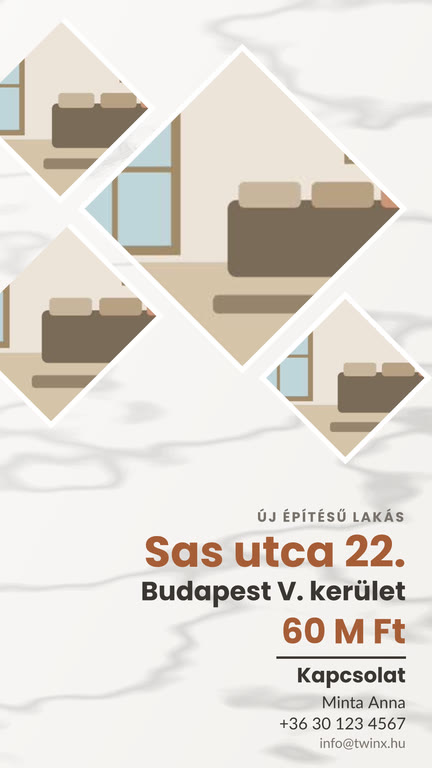
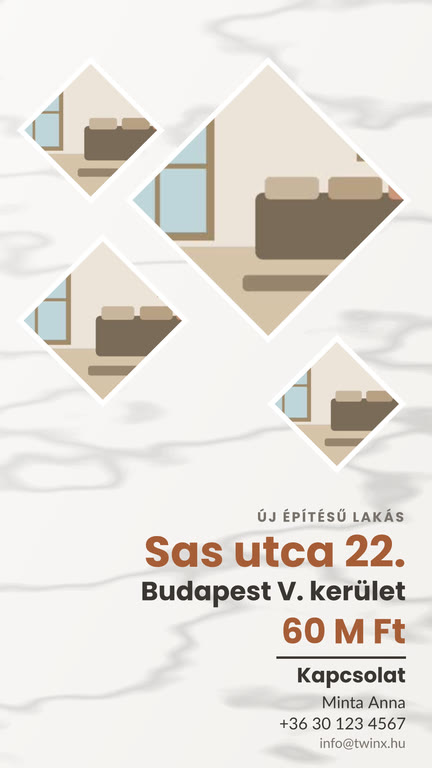
Mozaik: Smaragd + arany színvilág, rombuszok végig keretezve; Pakli → Polaroid; kedvenc-szűrő nem zsugorítja az ablakot

diff --git a/src/components/video/VideoWizard.tsx b/src/components/video/VideoWizard.tsx
@@ -156,6 +156,14 @@ export default function VideoWizard({
     }
   }
   const visibleFamilies = favOnly ? ENGINE_FAMILIES.filter((f) => favorites.has(f.templateId)) : ENGINE_FAMILIES;
+  // A sablonlista magassága az „Összes sablon” nézetben — a Kedvencekre váltva is ennyi marad,
+  // így a szerkesztő ablaka nem ugrik össze, ha kevés (vagy nincs) kedvenc.
+  const listRef = useRef<HTMLDivElement>(null);
+  const [listH, setListH] = useState<number | null>(null);
+  function pickFilter(fav: boolean) {
+    if (fav && !favOnly && listRef.current) setListH(listRef.current.getBoundingClientRect().height);
+    setFavOnly(fav);
+  }
 
   // 1) Képek (5, az első a NYITÓKÉP). Minden fotóhoz saját, szabad felirat tartozik.
   type CaptionPos = "bottom" | "center";
@@ -449,7 +457,8 @@ export default function VideoWizard({
                 {engine ? "Minden sablonnak saját stílusa, áttűnése és színvilága van." : "A sablonok felépítése azonos — a kiemelő szín különbözteti meg őket."}
               </p>
               {/* SABLONLISTA — GÖRGETHETŐ (több sablonnál ez a rész gördül, a méret-sáv alatta fix) */}
-              <div className="-mx-1 min-h-0 flex-1 overflow-y-auto px-1 pb-1">
+              <div ref={listRef} className="-mx-1 min-h-0 flex-1 overflow-y-auto px-1 pb-1"
+                style={favOnly && listH ? { minHeight: listH, flexBasis: listH } : undefined}>
                 {engine ? (
                   visibleFamilies.length === 0 ? (
                     <div className="rounded-xl px-4 py-8 text-center text-sm" style={{ border: "1px dashed var(--twx-line)", color: "var(--twx-ink-muted)" }}>
@@ -597,7 +606,7 @@ export default function VideoWizard({
                         ].map((t) => {
                           const active = favOnly === t.id;
                           return (
-                            <button key={String(t.id)} type="button" role="tab" aria-selected={active} onClick={() => setFavOnly(t.id)}
+                            <button key={String(t.id)} type="button" role="tab" aria-selected={active} onClick={() => pickFilter(t.id)}
                               className="flex items-center gap-2.5 rounded-lg py-1 pl-1 pr-3 text-left transition"
                               style={{ background: active ? "var(--twx-coral-soft)" : "transparent" }}>
                               <span className="flex h-7 w-7 items-center justify-center rounded-md text-[13px]"
@@ -1118,9 +1127,9 @@ function EnginePreview({ item, photo }: { item: EngineGalleryItem; photo?: strin
         // eslint-disable-next-line @next/next/no-img-element
         <img src={photo} alt="" className="absolute inset-0 h-full w-full object-cover" />
       )}
-      {item.templateId === "pakli" ? (
-        // Pakli: a VALÓDI motor nyitóképe a választott színvilággal (piros / kék) — lakás-ábrával.
-        // Újragyártás: node scripts/video-pakli-preview.mjs → public/video-previews/pakli*-9x16.jpg
+      {item.templateId === "polaroid" ? (
+        // Polaroid: a VALÓDI motor nyitóképe a választott színvilággal (piros / kék) — lakás-ábrával.
+        // Újragyártás: node scripts/video-polaroid-preview.mjs → public/video-previews/polaroid*-9x16.jpg
         <span className="absolute inset-0 flex justify-center" style={{ background: p.base }}>
           {/* eslint-disable-next-line @next/next/no-img-element */}
           <img src={`/video-previews/${item.id}-9x16.jpg`} alt="" className="h-full w-auto max-w-none object-contain" />
@@ -1130,7 +1139,7 @@ function EnginePreview({ item, photo }: { item: EngineGalleryItem; photo?: strin
         // Újragyártás sablonváltozáskor: public/video-previews/mozaik-9x16.jpg (docs/video-motor-allapot.md).
         <span className="absolute inset-0 flex justify-center" style={{ background: p.base }}>
           {/* eslint-disable-next-line @next/next/no-img-element */}
-          <img src="/video-previews/mozaik-9x16.jpg" alt="" className="h-full w-auto max-w-none object-contain" />
+          <img src={`/video-previews/${item.id}-9x16.jpg`} alt="" className="h-full w-auto max-w-none object-contain" />
         </span>
       ) : item.templateId === "prestige" ? (
         <>

diff --git a/src/lib/video-engine/templates/index.ts b/src/lib/video-engine/templates/index.ts
@@ -4,14 +4,14 @@ import { applyVariant } from "@/lib/video-engine/template-schema";
 import { AURORA, AURORA_VARIANTS } from "@/lib/video-engine/templates/aurora";
 import { SKANDI, SKANDI_VARIANTS } from "@/lib/video-engine/templates/skandi";
 import { PRESTIGE, PRESTIGE_VARIANTS } from "@/lib/video-engine/templates/prestige";
-import { MOZAIK } from "@/lib/video-engine/templates/mozaik";
-import { PAKLI, PAKLI_VARIANTS } from "@/lib/video-engine/templates/pakli";
+import { MOZAIK, MOZAIK_VARIANTS } from "@/lib/video-engine/templates/mozaik";
+import { POLAROID, POLAROID_VARIANTS } from "@/lib/video-engine/templates/polaroid";
 
 /** Fejlesztés alatti sablonok (devOnly) csak localhoston látszanak és választhatók. */
 const SHOW_DEV = process.env.NODE_ENV !== "production";
 
-export const ENGINE_TEMPLATES: TwinxTemplate[] = [AURORA, SKANDI, PRESTIGE, MOZAIK, PAKLI].filter((t) => SHOW_DEV || !t.devOnly);
-export const ENGINE_VARIANTS: TemplateVariant[] = [...AURORA_VARIANTS, ...SKANDI_VARIANTS, ...PRESTIGE_VARIANTS, ...PAKLI_VARIANTS]
+export const ENGINE_TEMPLATES: TwinxTemplate[] = [AURORA, SKANDI, PRESTIGE, MOZAIK, POLAROID].filter((t) => SHOW_DEV || !t.devOnly);
+export const ENGINE_VARIANTS: TemplateVariant[] = [...AURORA_VARIANTS, ...SKANDI_VARIANTS, ...PRESTIGE_VARIANTS, ...MOZAIK_VARIANTS, ...POLAROID_VARIANTS]
   // A fejlesztés alatti (rejtett) sablon színváltozata is rejtve marad.
   .filter((v) => ENGINE_TEMPLATES.some((t) => t.id === v.templateId));
 
@@ -49,7 +49,7 @@ const FAMILY_NAMES: Record<string, { name: string; tagline: string }> = {
   aurora: { name: "Aurora", tagline: "Elegáns, sötét — nyíl-áttűnések, ferde panelek" },
   skandi: { name: "Skandi", tagline: "Világos, letisztult — lágy átúsztatás, háztető-panel" },
   mozaik: { name: "Mozaik", tagline: "Világos, márványos — rombusz fotómozaik, képcserés galéria, papírcsík-felirat" },
-  pakli: { name: "Pakli", tagline: "Fotópakli telt színen — a szél lefújja a legfelső képet, írógépes feliratok (fejlesztés alatt)" },
+  polaroid: { name: "Polaroid", tagline: "Előhívott fotók paklija telt színen — a szél lefújja a legfelsőt, régi film hangulat (fejlesztés alatt)" },
   prestige: { name: "Prestige", tagline: "Luxus, sötét elegancia — filmes „filmburn” áttűnés hanggal" },
 };
 const COLOR_NAMES: Record<string, string> = {
@@ -60,8 +60,9 @@ const COLOR_NAMES: Record<string, string> = {
   prestige: "Pezsgőarany",
   "prestige-grafit": "Grafit + platina",
   mozaik: "Márvány + terrakotta",
-  pakli: "Bíborpiros",
-  "pakli-kek": "Drámai kék",
+  "mozaik-smaragd": "Smaragd + arany",
+  polaroid: "Bíborpiros",
+  "polaroid-kek": "Drámai kék",
 };
 export type EngineColor = EngineGalleryItem & { colorName: string };
 export type EngineFamily = { templateId: string; name: string; tagline: string; colors: EngineColor[] };

diff --git a/src/lib/video-engine/templates/mozaik.ts b/src/lib/video-engine/templates/mozaik.ts
@@ -9,7 +9,7 @@
 // GALÉRIA (2. fotótól): nagy kép + kis képek oszlopa, „csere" áttűnés, papírcsík-felirat.
 //
 // IDŐVONAL (5 fotó, 34,4 mp): 0–6 nyitó · 6–28,4 galéria (4 × 5,6 mp) · 28,4–34,4 zárókép
-import type { TwinxTemplate, Layer, StackItem, AspectId, Box } from "@/lib/video-engine/template-schema";
+import type { TwinxTemplate, Layer, StackItem, AspectId, Box, TemplateVariant } from "@/lib/video-engine/template-schema";
 
 const HEAD = "Outfit";
 const NOTE = "Shantell Sans";
@@ -22,22 +22,24 @@ function dbox(d: D, aspect: AspectId) {
   return { x: d.cx - d.r, y: (d.cy - d.r) * k, w: 2 * d.r, h: 2 * d.r * k };
 }
 
-// A rombuszok egymáshoz képest ~0,035 W fehér réssel (a referencia sűrű mozaikja).
+// A rombuszok egymáshoz képest ~0,05 W fehér réssel (a referencia sűrű mozaikja).
+// MIND a vásznon belül marad (min. 3% margó) — így a fehér keret körben, végig látszik
+// (korábban a bal oldali kis rombuszok kilógtak, és a keretük félbe vágódott).
 const LAYOUT: Record<AspectId, { main: D; small: D[] }> = {
   "1:1": {
-    main: { cx: 0.33, cy: 0.42, r: 0.3 },
+    main: { cx: 0.36, cy: 0.42, r: 0.25 },
     small: [
-      { cx: 0.08, cy: 0.15, r: 0.17 }, // bal felső (kilóg a szélen)
-      { cx: 0.08, cy: 0.73, r: 0.21 }, // bal alsó
-      { cx: 0.47, cy: 0.8, r: 0.17 },  // lent középen
+      { cx: 0.16, cy: 0.17, r: 0.13 }, // bal felső
+      { cx: 0.19, cy: 0.76, r: 0.16 }, // bal alsó
+      { cx: 0.5, cy: 0.83, r: 0.13 },  // lent középen
     ],
   },
   "9:16": {
-    main: { cx: 0.56, cy: 0.48, r: 0.38 },
+    main: { cx: 0.62, cy: 0.46, r: 0.33 },
     small: [
-      { cx: 0.14, cy: 0.25, r: 0.22 }, // bal felső
-      { cx: 0.12, cy: 0.73, r: 0.26 }, // bal alsó
-      { cx: 0.8, cy: 0.87, r: 0.2 },   // jobb alsó
+      { cx: 0.21, cy: 0.3, r: 0.17 },  // bal felső
+      { cx: 0.24, cy: 0.74, r: 0.2 },  // bal alsó
+      { cx: 0.78, cy: 0.93, r: 0.16 }, // jobb alsó
     ],
   },
 };
@@ -265,3 +267,11 @@ function buildMozaik(count: number): TwinxTemplate {
 }
 
 export const MOZAIK: TwinxTemplate = buildMozaik(5);
+
+/** Második színvilág: SMARAGD MÁRVÁNY + ARANY (sötétzöld márvány háttér, arany cím és ár, krém szöveg). */
+export const MOZAIK_VARIANTS: TemplateVariant[] = [
+  {
+    id: "mozaik-smaragd", templateId: "mozaik", name: "TWINX Mozaik — Smaragd + arany",
+    palette: { shadow: "#0b1c17", base: "#173229", glow: "#24463b", accent: "#d4b06a", text: "#f3ece0", muted: "#9fb6a9" },
+  },
+];

diff --git a/src/lib/video-engine/templates/polaroid.ts b/src/lib/video-engine/templates/polaroid.ts
@@ -1,4 +1,4 @@
-// TWINX PAKLI — „fotópakli” sablon (FEJLESZTÉS ALATT: csak localhoston — devOnly).
+// TWINX POLAROID (korábbi munkanév: Pakli) — „fotópakli” sablon (FEJLESZTÉS ALATT: csak localhoston — devOnly).
 //
 // A referencia: telt színű háttéren (bíborpiros / drámai kék) egy pakli előhívott fotó.
 // • A FŐ INFORMÁCIÓK végig FENT állnak; a nyitóképen lendületesen, egymás után úsznak be
@@ -142,7 +142,7 @@ function caption(n: number): Layer {
   };
 }
 
-function buildPakli(count: number): TwinxTemplate {
+function buildPolaroid(count: number): TwinxTemplate {
   const n = count >= 5 ? 5 : 4;
   const photoScenes: TwinxTemplate["scenes"] = [];
   for (let m = 2; m <= n; m++) {
@@ -168,8 +168,8 @@ function buildPakli(count: number): TwinxTemplate {
     appear: { type: "rise", delay, duration: 0.5 },
   });
   return {
-    id: "pakli",
-    name: "TWINX Pakli",
+    id: "polaroid",
+    name: "TWINX Polaroid",
     devOnly: true, // FEJLESZTÉS ALATT — élesben nem jelenik meg
     version: 1,
     fps: 25,
@@ -191,7 +191,7 @@ function buildPakli(count: number): TwinxTemplate {
     audio: { volume: 1, fadeIn: 0.6, fadeOut: 2.2 },
     // „Régi fotó / old film” hangulat: szemcse, sötétedő szélek, fakó-meleg tónus, enyhe vibrálás.
     look: { grain: 16, vignette: 0.4, fade: 0.6, warm: 0.6, flicker: 0.5 },
-    forPhotoCount: (k: number) => buildPakli(k),
+    forPhotoCount: (k: number) => buildPolaroid(k),
     scenes: [
       {
         id: "nyito", role: "intro", length: INTRO,
@@ -231,12 +231,12 @@ function buildPakli(count: number): TwinxTemplate {
   };
 }
 
-export const PAKLI: TwinxTemplate = buildPakli(5);
+export const POLAROID: TwinxTemplate = buildPolaroid(5);
 
 /** Második színvilág: DRÁMAI KÉK (a fehér betű jól olvasható rajta). */
-export const PAKLI_VARIANTS: TemplateVariant[] = [
+export const POLAROID_VARIANTS: TemplateVariant[] = [
   {
-    id: "pakli-kek", templateId: "pakli", name: "TWINX Pakli — Drámai kék",
+    id: "polaroid-kek", templateId: "polaroid", name: "TWINX Polaroid — Drámai kék",
     palette: { shadow: "#06143a", base: "#11307f", glow: "#1d45a6", muted: "#cfdcf5" },
   },
 ];

diff --git a/src/lib/video-engine/layers.ts b/src/lib/video-engine/layers.ts
@@ -422,6 +422,11 @@ function marble(l: Extract<Layer, { kind: "component" }>, ctx: LayerCtx): Satori
   const base = resolveColor("@base", ctx.palette);
   const vein = resolveColor((l.props?.vein as ColorRef | undefined) ?? "@muted", ctx.palette);
   const seed = Number(l.props?.seed ?? 7);
+  // Sötét alapnál (pl. smaragd) a fehér „fényfolt” csak halvány, különben tejes lesz a márvány.
+  const n = parseInt(base.slice(1), 16);
+  const lum = (0.299 * ((n >> 16) & 255) + 0.587 * ((n >> 8) & 255) + 0.114 * (n & 255)) / 255;
+  const sheen = lum < 0.45 ? "0.12" : "0.55";
+  const veinOp = lum < 0.45 ? 0.16 : 0.2;
   return {
     type: "div",
     props: {
@@ -441,12 +446,12 @@ function marble(l: Extract<Layer, { kind: "component" }>, ctx: LayerCtx): Satori
                 { type: "feGaussianBlur", props: { in: "v", stdDeviation: "0.6" } },
               ] } },
               { type: "linearGradient", props: { id: "mg", x1: "0", y1: "0", x2: "1", y2: "1", children: [
-                { type: "stop", props: { offset: "0", "stop-color": "#ffffff", "stop-opacity": "0.55" } },
+                { type: "stop", props: { offset: "0", "stop-color": "#ffffff", "stop-opacity": sheen } },
                 { type: "stop", props: { offset: "1", "stop-color": "#ffffff", "stop-opacity": "0" } },
               ] } },
             ] } },
             { type: "rect", props: { x: 0, y: 0, width: W, height: H, fill: base } },
-            { type: "rect", props: { x: 0, y: 0, width: W, height: H, fill: vein, opacity: 0.2, filter: "url(#mv)" } },
+            { type: "rect", props: { x: 0, y: 0, width: W, height: H, fill: vein, opacity: veinOp, filter: "url(#mv)" } },
             { type: "rect", props: { x: 0, y: 0, width: W, height: H, fill: "url(#mg)" } },
           ],
         },

diff --git a/docs/video-motor-allapot.md b/docs/video-motor-allapot.md
@@ -81,8 +81,8 @@ A sablonkártya képe a VALÓDI motor nyitóképe: `public/video-previews/mozaik
 - Kedvencek: csillag a kártya bal felső sarkában → `video_template_favorites` tábla (`video-favorites.sql`),
   API: `src/app/api/real-estate/video/favorites/route.ts`. Ha a tábla hiányzik, a szerkesztő kedvencek nélkül működik.
 
-## **Pakli** (5. sablon) — FEJLESZTÉS ALATT (`devOnly`, csak localhost)
-- Fájl: `templates/pakli.ts`. Telt háttér: Bíborpiros (alap) / Drámai kék (`pakli-kek`).
+## **Polaroid** (5. sablon; korábbi munkanév: Pakli) — FEJLESZTÉS ALATT (`devOnly`, csak localhost)
+- Fájl: `templates/polaroid.ts` (id: `polaroid`). Telt háttér: Bíborpiros (alap) / Drámai kék (`polaroid-kek`).
 - Betű: Liberation Sans (OFL, a repóban: `assets/fonts/video/`) — Helvetica-jellegű, szoros betűköz (a referencia betűképe).
 - Fent végig a fő infó: kis típus-felirat · nagy félkövér cím (balra) · település jobbra zárva · ár kiemelő sávval.
   A nyitón egymás után, lendületesen úsznak be (`appear: "rise"`), a sáv balról kihúzódik (`appear: "wipe"`,
@@ -90,7 +90,7 @@ A sablonkártya képe a VALÓDI motor nyitóképe: `public/video-previews/mozaik
 - (Az írógépes `typeStack` / `typewriter` a motorban megmaradt, a Pakli már nem használja — lassú volt.)
 - Képváltás: a pakli tetejéről a szél LEFÚJJA a legfelső képet (`blow` a rétegen → forgás + gyorsuló sodródás, `kind: "blow"`).
 - Zárókép: a legalsó lap üres papír, rajta gépelve az elérhetőség (sötét tinta), alatta a logó.
-- Előnézet: `scripts/video-pakli-preview.mjs` → `public/video-previews/pakli*-9x16.jpg`.
+- Előnézet: `scripts/video-polaroid-preview.mjs` → `public/video-previews/polaroid*-9x16.jpg`.
 - „Régi film” hatás: `look` a sablonon (render-node.ts → `filmLookChain`): fakó-meleg tónus (görbék),
   enyhe fényvibrálás, sötétedő szélek, mozgó filmszemcse (csak fényességen). Az előnézet is ezt kapja.
 - Render (5 fotó): 9:16 ~45 mp, 1:1 ~26 mp (a szemcse miatt lassabb a kódolás; Vercelen ~1,5–2×).
@@ -99,3 +99,8 @@ A sablonkártya képe a VALÓDI motor nyitóképe: `public/video-previews/mozaik
   `sparkle` komponens (badge | star4 | asterisk) — abszolút időt követnek, jelenetváltáskor nem ugranak.
 - VILLANÁS-JAVÍTÁS (motor, minden sablon): az overlay-ablakok 2 ms-mal korábban kezdődnek (`ew()` a render-node-ban).
   A 14.8 / 19.6 mp-es jelenethatár képkockaideje lebegőpontosan 14.7999… volt → egy képkockára minden réteg eltűnt.
+
+### Mozaik — második színvilág (2026-10-06)
+- `mozaik-smaragd` (Smaragd + arany): sötétzöld márvány háttér, arany cím/ár, krém szöveg (`MOZAIK_VARIANTS`).
+  A márvány sötét alapon halványabb fényfoltot és erezetet kap (layers.ts `marble`). Áttűnések előgyártva.
+- Előnézetek: `scripts/video-mozaik-preview.mjs` → `public/video-previews/mozaik*-9x16.jpg` (a kártya a színvilág képét mutatja).
